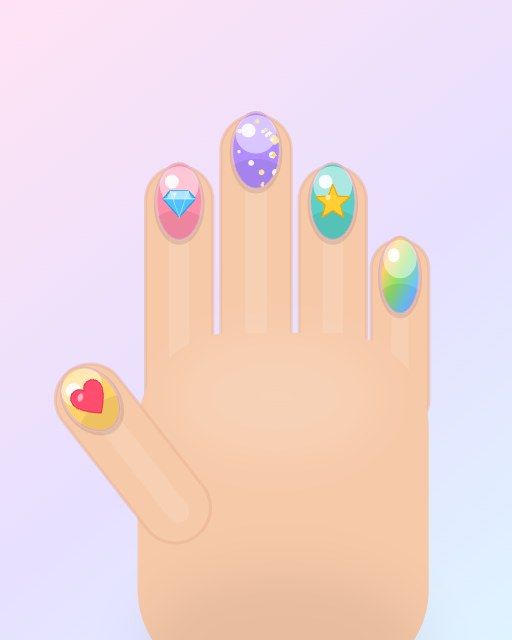
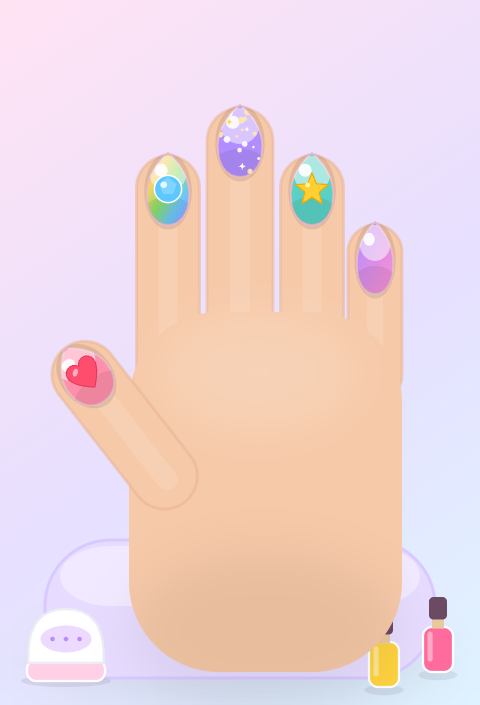
polish: friendlier foot shape; refresh README and preview
Reshape the foot so it tapers to the heel and reads clearly as a foot. Update
the README for the new salon scene, nail shapes, sticker packs, and pedicure
mode, and regenerate the preview image.

diff --git a/js/game.js b/js/game.js
@@ -378,10 +378,11 @@
     buildNail(t.id, t.cx, t.top + t.w * 0.42, t.w * 0.4, t.w * 0.3, g, "foot");
   }
   function buildFoot(root) {
-    // Foot body (cute, top-down), then toes on top.
-    el("path", { d: "M84 250 C74 202 104 188 170 188 C236 188 264 202 256 252 C262 330 250 452 170 452 C90 452 78 330 84 250 Z", fill: SKIN, class: "skin" }, root);
-    el("ellipse", { cx: 170, cy: 250, rx: 70, ry: 40, fill: "#ffffff", opacity: 0.16, filter: "url(#soft)" }, root);
-    el("ellipse", { cx: 172, cy: 430, rx: 92, ry: 46, fill: "#000000", opacity: 0.06, filter: "url(#soft)" }, root);
+    // Foot body (cute, top-down): widest at the ball, tapering to the heel.
+    // Then toes are drawn on top so their bases blend into the foot.
+    el("path", { d: "M100 226 C96 198 122 190 152 190 C204 190 248 202 250 248 C254 322 232 452 176 454 C140 456 118 450 116 408 C110 348 104 282 100 226 Z", fill: SKIN, class: "skin" }, root);
+    el("ellipse", { cx: 168, cy: 252, rx: 64, ry: 36, fill: "#ffffff", opacity: 0.16, filter: "url(#soft)" }, root);
+    el("ellipse", { cx: 172, cy: 430, rx: 78, ry: 40, fill: "#000000", opacity: 0.06, filter: "url(#soft)" }, root);
     TOES.forEach((t) => buildToe(t, root));
   }
 

diff --git a/README.md b/README.md
@@ -1,26 +1,39 @@
 # ✨ Nail Salon ✨
 
-A gentle, ad-free nail painting game made for little kids (about 5 years old).
+A gentle, ad-free nail salon game made for little kids (about 5 years old).
 
-- **No ads. No paywalls. No sign-ups. No internet needed.** Just paint and play.
+- **No ads. No paywalls. No sign-ups. No internet needed.** Just play.
 - Runs in any web browser — on a computer, phone, or tablet.
 - Big, friendly buttons and soft pastel colors designed for small hands.
 
-![A hand with painted and decorated nails](README-preview.png)
+![A hand being decorated in the salon](README-preview.png)
+
+## What you can do
+
+- 💅 **A little salon scene** — the hand (or foot!) rests on a cushion with
+  polish bottles and a tiny nail lamp, just like a real nail salon.
+- 🎨 **Paint** — pick a cute polish bottle (solid colors *and* sparkly
+  gradient polishes) and tap a nail.
+- 💠 **Nail shapes** — choose oval, round, almond, square, or coffin.
+- ✨ **Themed sticker packs** — **Cute** (hearts, stars, flowers, bows,
+  rainbows, glitter), **Sea** (shells, starfish, fish, pearls),
+  **Party** (balloons, cake, gifts, crowns), and **Gems** (a diamond and
+  shiny colored rhinestones).
+- 🦶 **Hands *and* toes** — tap the top-left button to switch between doing a
+  manicure and a pedicure. Each keeps its own design.
+- ✋ **Skin tones** — pick a hand that looks like theirs.
+- 🧽 **Wipe** one nail clean, or 🧼 **start over**.
+- 📸 **Save a picture** of the design to keep.
+
+Every tap gives a little sparkle, a springy pop, and a soft chime. 🎵
 
 ## How to play
 
 1. Open `index.html` in a web browser.
-2. Tap a **color** at the bottom, then tap a **nail** to paint it.
-3. Tap a **sticker** (✨ glitter, 💎 gem, ❤ heart, ⭐ star, 🌸 flower), then tap a
-   nail to decorate it. The 🧽 sponge cleans one nail.
-4. Use the top buttons any time:
-   - ✋ change the hand's skin color
-   - 🔊 turn the happy sounds on or off
-   - 📸 save a picture of the design
-   - 🧼 start over with fresh nails
-
-Every tap gives a little sparkle, a springy pop, and a soft chime. 🎵
+2. Use the **tabs** at the bottom — Colors, Stickers, Shapes, Skin, Wipe.
+3. Pick something, then **tap a nail** to use it.
+4. Use the top buttons any time: ✋/🦶 hand or foot, 🔊 sound, 📸 save,
+   🧼 start over.
 
 ## Run it
 
@@ -45,9 +58,9 @@ downloads, no ads.
 
 ## Why a web page instead of an app?
 
-It's the simplest thing that works everywhere, needs no installation or app-store
-account, and can never sneak in ads or purchases. The whole game is three small
-files with no dependencies and no tracking.
+It's the simplest thing that works everywhere, needs no installation or
+app-store account, and can never sneak in ads or purchases. The whole game is a
+few small files with no dependencies and no tracking.
 
 ## Project layout
 
@@ -55,7 +68,7 @@ files with no dependencies and no tracking.
 nail-salon/
 ├── index.html        # the page
 ├── css/styles.css    # looks and layout
-├── js/game.js        # the game (SVG hand, painting, stickers, sounds)
+├── js/game.js        # the game (scene, hand/foot, shapes, stickers, sounds)
 ├── fonts/
 │   ├── fredoka.woff2 # the rounded title font (self-hosted for offline use)
 │   └── OFL.txt       # its license
@@ -64,11 +77,11 @@ nail-salon/
 
 ## Credits
 
-- Everything you see — the hand, the glossy nails, the gems, hearts, stars,
-  flowers, and glitter — is drawn with plain SVG and CSS. No image files, no
-  tracking, no dependencies.
+- Everything you see — the hand, foot, glossy nails, gems, stickers, bottles,
+  and lamp — is drawn with plain SVG and CSS. No image files, no tracking, no
+  dependencies.
 - Font: **[Fredoka](https://fonts.google.com/specimen/Fredoka)** by Milena
   Brandão & Hafontia, used under the SIL Open Font License 1.1 (see
-  `fonts/OFL.txt`). It's bundled locally so the game needs no internet.
+  `fonts/OFL.txt`). Bundled locally so the game needs no internet.
 
 Made with love for a 5-year-old who just wants to paint nails in peace. 💅
